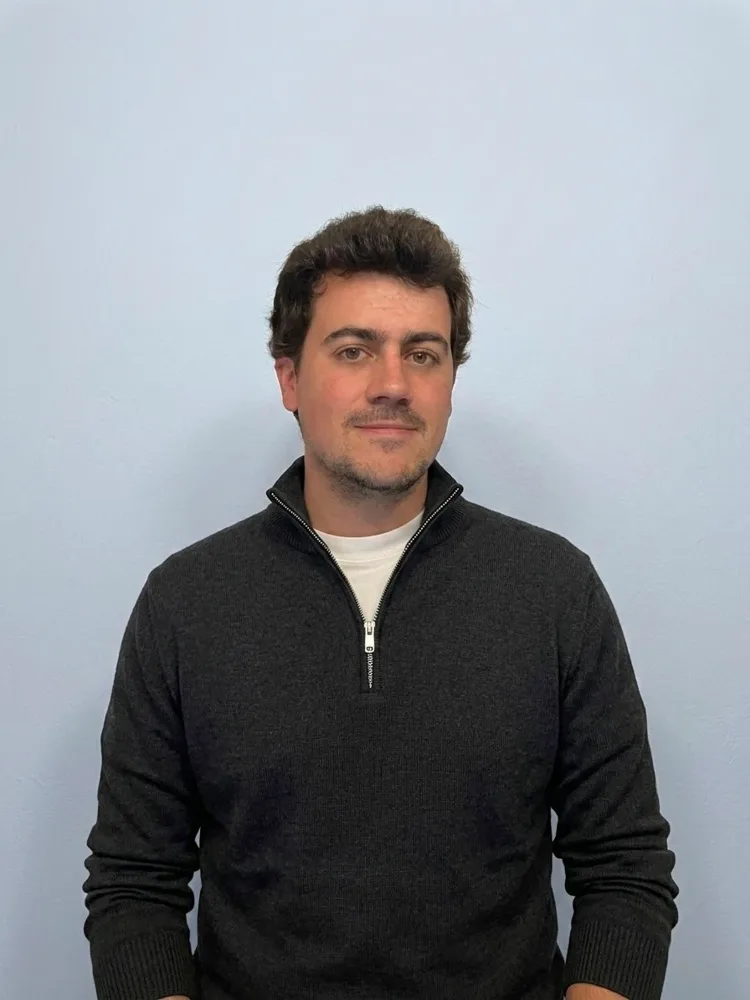
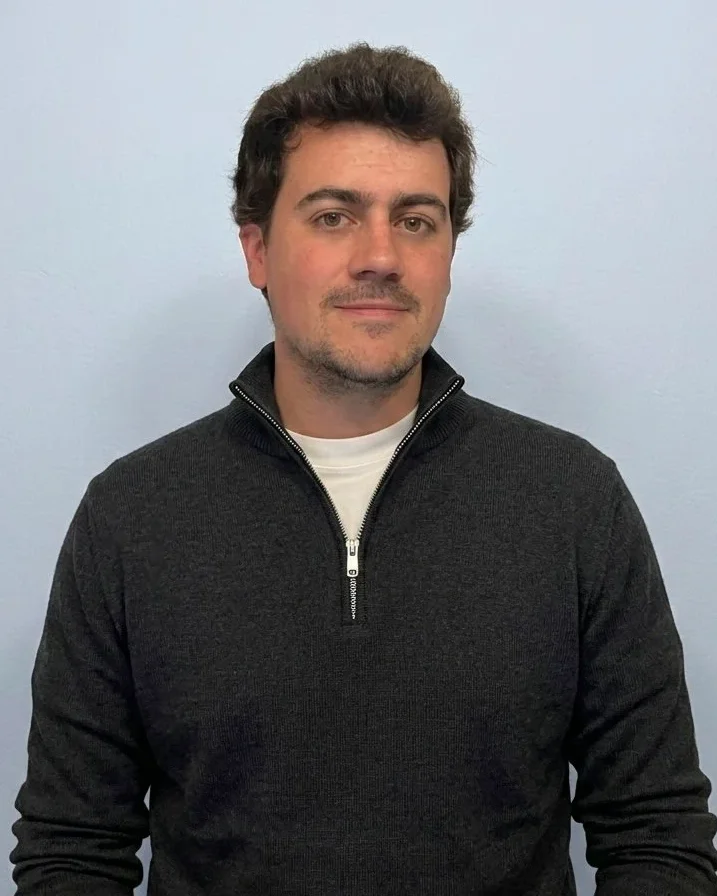
«Sobre mí»: ampliada sin marco, retrato recortado y textos ligados
- La ampliada muestra la foto tal cual, sin marco blanco.
- Retrato recortado a busto.
- Biología: la mariposa con «naturaleza»; EASiMap como paso del
  laboratorio al ordenador, «mapa estelar de proteínas».
- Datos de salud: el máster de la UOC sin el detalle del TFM.
- Producto sin miniatura hasta tener capturas de la plataforma.
- «Por mi cuenta» ligado al camino: lo aprendido lleva a construir
  herramientas; naturaleza y fotografía.

Changed region(s): [[0.0, 0.0312, 1.0, 1.0]]

diff --git a/src/i18n/ui.ts b/src/i18n/ui.ts
@@ -47,11 +47,11 @@ export const ui = {
       // El camino de «Sobre mí»: [[id]] inserta la miniatura de fotos[id]
       camino: [
         { etiqueta: 'Hoy', texto: 'Soy Miguel [[retrato]]. Trabajo en la vigilancia y supervisión de modelos de inteligencia artificial en sanidad, desde Santiago de Compostela.' },
-        { etiqueta: '2018 · Biología', texto: 'Estudié Biología en la Universidade de Santiago de Compostela [[mariposa]], y la naturaleza sigue siendo mi primer interés. En el máster en Bioingeniería del IQS me pasé al análisis computacional. Mi trabajo final fue EASiMap, un mapa de familias de enzimas construido a partir de sus estructuras [[easimap]].' },
-        { etiqueta: '2021 · Datos de salud', texto: 'Entré en GMV como analista de datos de salud, trabajando con datasets clínicos europeos y su calidad. En paralelo hice el máster en Bioinformática y Bioestadística de la UOC, donde aprendí machine learning. En el trabajo final medí con tuits en varias lenguas cómo cambió el sentimiento negativo en España durante la pandemia, y lo comparé con los casos de COVID-19 [[tuits]].' },
-        { etiqueta: '2022 · Producto', texto: 'Pasé a gestionar productos de datos. Diseñé el flujo de datos de plataformas europeas como ProReg, el registro de cáncer de próstata de la European Association of Urology [[proreg]], con el modelo OMOP en la base, procesos ETL con controles de calidad e iteraciones con urólogos de varios países.' },
+        { etiqueta: '2018 · Biología', texto: 'Estudié Biología en la Universidade de Santiago de Compostela, y la naturaleza [[mariposa]] sigue siendo mi primer interés. El máster en Bioingeniería del IQS fue mi paso del laboratorio al ordenador. Mi trabajo final fue EASiMap, una especie de mapa estelar de proteínas que sitúa las familias de enzimas a partir de sus estructuras [[easimap]].' },
+        { etiqueta: '2021 · Datos de salud', texto: 'Entré en GMV como analista de datos de salud, trabajando con datasets clínicos europeos y su calidad. En paralelo seguí formándome con el máster en Bioinformática y Bioestadística de la UOC, donde aprendí machine learning y lo apliqué a datos de salud.' },
+        { etiqueta: '2022 · Producto', texto: 'Pasé a gestionar productos de datos. Diseñé el flujo de datos de plataformas europeas como ProReg, el registro de cáncer de próstata de la European Association of Urology, con el modelo OMOP en la base, procesos ETL con controles de calidad e iteraciones con urólogos de varios países.' },
         { etiqueta: '2026 · Gobernanza de IA', texto: 'Hoy diseño cómo se valida un modelo de IA antes de que llegue a la práctica clínica y cómo se vigila cuando ya está en uso, desde su calidad, equidad y deriva hasta la forma en que lo usan los profesionales. Lo hago con IBM watsonx.governance en dos sistemas autonómicos de salud, y lo presento ante sistemas sanitarios. Mi objetivo es contribuir a que la IA siga al servicio de las personas.' },
-        { etiqueta: 'Por mi cuenta', texto: 'Exploro otros temas y construyo herramientas, de mapas con datos abiertos a Vigía, el curso de seguridad de la IA o WikiNatu [[wikinatu]]. Fuera de la pantalla me gustan la montaña [[montana]] y la fotografía [[paisaje]].' },
+        { etiqueta: 'Por mi cuenta', texto: 'Todo lo que he ido aprendiendo, en la formación y en el trabajo, lo sigo usando por mi cuenta para construir herramientas. Hay mapas con datos abiertos, Vigía, un curso de seguridad de la IA y WikiNatu [[wikinatu]], que junta dos cosas que me gustan, las rutas de montaña y la biodiversidad que hay en ellas. La naturaleza sigue muy presente [[montana]], y también me interesa la fotografía [[paisaje]], sin considerarme fotógrafo.' },
       ],
       fotos: {
         retrato: { src: '/sobre-mi/retrato.webp', alt: 'Retrato de Miguel Ferreiro' },
@@ -116,11 +116,11 @@ export const ui = {
       sobreMiTitulo: 'Biology → data → AI.',
       camino: [
         { etiqueta: 'Today', texto: 'I am Miguel [[retrato]]. I work on monitoring and overseeing artificial intelligence models in healthcare, from Santiago de Compostela, Spain.' },
-        { etiqueta: '2018 · Biology', texto: 'I studied Biology at the University of Santiago de Compostela [[mariposa]], and nature is still my first interest. In the MSc in Bioengineering at IQS I moved into computational analysis. My thesis was EASiMap, a map of enzyme families built from their structures [[easimap]].' },
-        { etiqueta: '2021 · Health data', texto: 'I joined GMV as a health data analyst, working with European clinical datasets and their quality. At the same time I did the MSc in Bioinformatics and Biostatistics at UOC, where I learned machine learning. For my thesis I measured, with tweets in several languages, how negative sentiment changed in Spain during the pandemic, and compared it with COVID-19 cases [[tuits]].' },
-        { etiqueta: '2022 · Product', texto: 'I moved on to managing data products. I designed the data flow of European platforms such as ProReg, the prostate cancer registry of the European Association of Urology [[proreg]], with the OMOP model underneath, ETL processes with quality checks, and iterations with urologists from several countries.' },
+        { etiqueta: '2018 · Biology', texto: 'I studied Biology at the University of Santiago de Compostela, and nature [[mariposa]] is still my first interest. The MSc in Bioengineering at IQS was my move from the lab to the computer. My thesis was EASiMap, a kind of star map of proteins that places enzyme families from their structures [[easimap]].' },
+        { etiqueta: '2021 · Health data', texto: 'I joined GMV as a health data analyst, working with European clinical datasets and their quality. At the same time I kept studying with the MSc in Bioinformatics and Biostatistics at UOC, where I learned machine learning and applied it to health data.' },
+        { etiqueta: '2022 · Product', texto: 'I moved on to managing data products. I designed the data flow of European platforms such as ProReg, the prostate cancer registry of the European Association of Urology, with the OMOP model underneath, ETL processes with quality checks, and iterations with urologists from several countries.' },
         { etiqueta: '2026 · AI governance', texto: 'Today I design how an AI model is validated before it reaches clinical practice and how it is monitored once in use, from its quality, fairness and drift to the way professionals use it. I do it with IBM watsonx.governance in two regional health systems, and I present it to health systems. My goal is to help keep AI at the service of people.' },
-        { etiqueta: 'On my own', texto: 'I explore other topics and build tools, from open-data maps to Vigía, the AI safety course or WikiNatu [[wikinatu]]. Away from the screen I enjoy the mountains [[montana]] and photography [[paisaje]].' },
+        { etiqueta: 'On my own', texto: 'Everything I have learned, in my studies and at work, I keep using on my own to build tools. There are open-data maps, Vigía, an AI safety course and WikiNatu [[wikinatu]], which brings together two things I like, mountain routes and the biodiversity along them. Nature is still very present [[montana]], and I am also into photography [[paisaje]], without calling myself a photographer.' },
       ],
       fotos: {
         retrato: { src: '/sobre-mi/retrato.webp', alt: 'Portrait of Miguel Ferreiro' },
